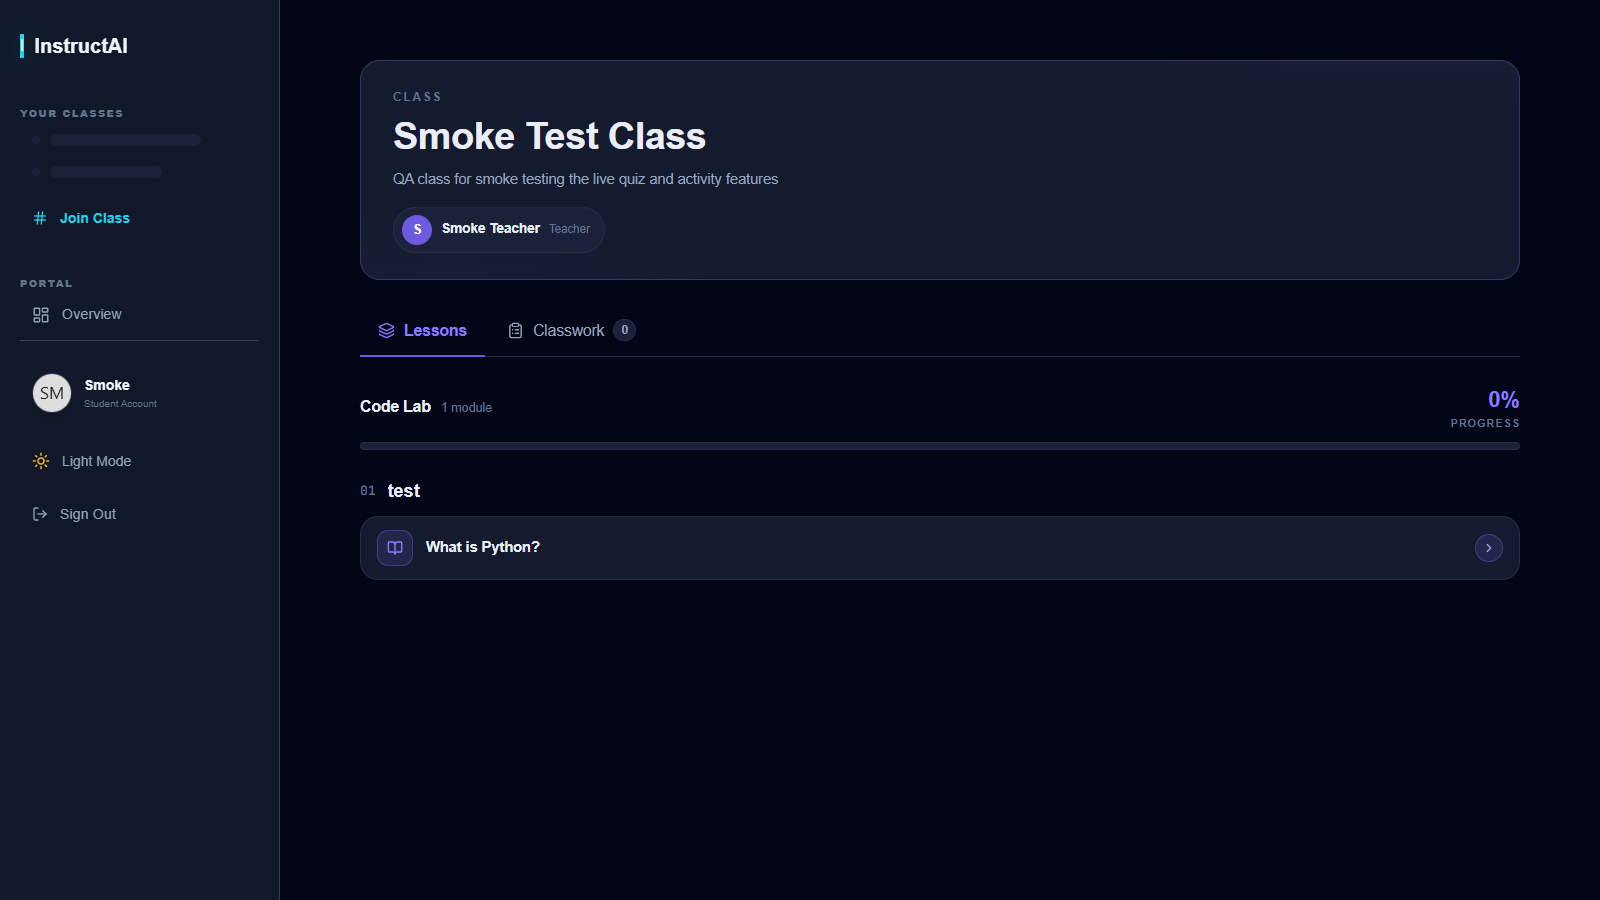
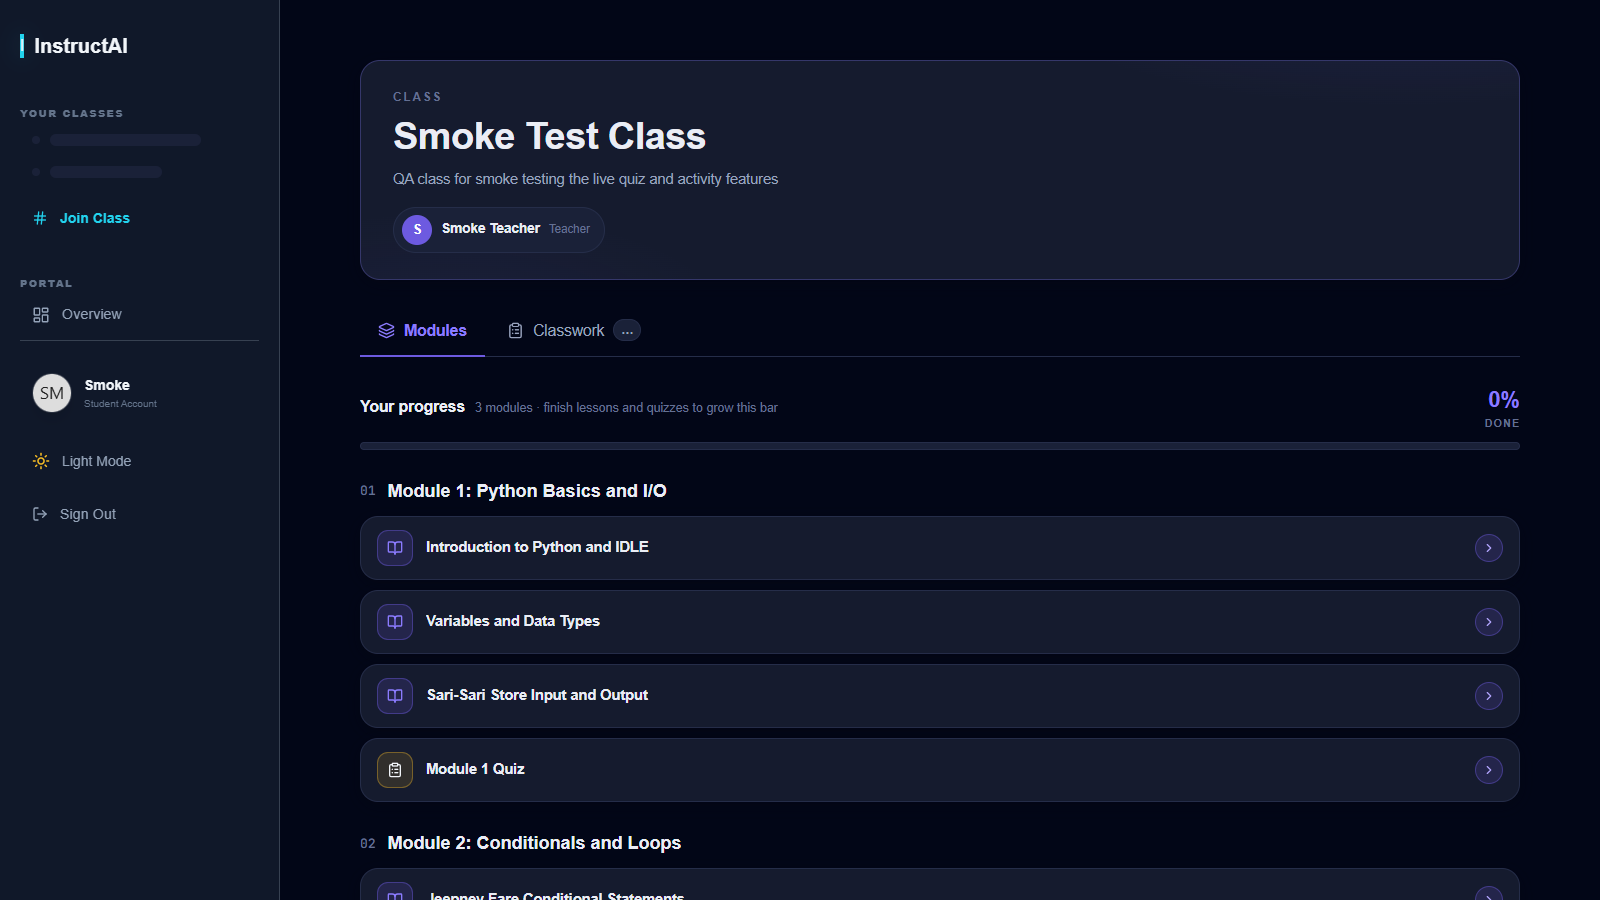
chore: cleanup test artifacts; student Modules tab rename; classwork badge honesty
- removed one-shot scripts, test PDFs, response captures, and the stray autoclaw test image; purged the junk test PDF from Cloudinary
- student tab renamed Lessons -> Modules (it holds modules, not just lessons); course-title leak replaced with 'Your progress'
- classwork badge shows an ellipsis while loading instead of a lying 0

diff --git a/frontend/src/pages/student/Classview.jsx b/frontend/src/pages/student/Classview.jsx
@@ -9,7 +9,7 @@ import { useStudentClass, useStudentActivities } from '../../queries/student';
 import { SkeletonBlock } from '../../components/ui/skeletons';
 import '../../styles/dashboard.css';
 
-const TABS = ['lessons', 'classwork'];
+const TABS = ['modules', 'classwork'];
 
 /**
  * Student class page — strict 1 class = 1 course (docs/data-layer-plan.md).
@@ -22,7 +22,7 @@ export default function ClassView() {
     const [searchParams, setSearchParams] = useSearchParams();
 
     const tabParam = searchParams.get('tab');
-    const activeTab = TABS.includes(tabParam) ? tabParam : 'lessons'; // legacy ?tab=courses lands here
+    const activeTab = TABS.includes(tabParam) ? tabParam : 'modules'; // legacy ?tab=courses lands here
     const setTab = (tab) => setSearchParams({ tab }, { replace: true });
 
     const { data: classroom, isLoading, isError } = useStudentClass(id);
@@ -86,9 +86,9 @@ export default function ClassView() {
 
             {/* Tabs */}
             <div className="cd-tab-bar">
-                <button type="button" className={`cd-tab ${activeTab === 'lessons' ? 'active' : ''}`} onClick={() => setTab('lessons')}>
+                <button type="button" className={`cd-tab ${activeTab === 'modules' ? 'active' : ''}`} onClick={() => setTab('modules')}>
                     <Layers size={17} />
-                    Lessons
+                    Modules
                 </button>
                 <button type="button" className={`cd-tab ${activeTab === 'classwork' ? 'active' : ''}`} onClick={() => setTab('classwork')}>
                     <ClipboardList size={17} />
@@ -102,24 +102,24 @@ export default function ClassView() {
                 </button>
             </div>
 
-            {/* LESSONS TAB — the single course's content, no course-picker hop */}
-            {activeTab === 'lessons' && (
+            {/* MODULES TAB — the single course's content, no course-picker hop */}
+            {activeTab === 'modules' && (
                 !course || modules.length === 0 ? (
                     <div className="cd-empty">
                         <BookOpen size={28} style={{ marginBottom: 6 }} />
                         <p className="cd-empty-title">No lessons yet</p>
-                        <p>Your teacher hasn't published any lessons. Check back soon — or switch to Classwork.</p>
+                        <p>Your teacher hasn't published any modules yet. Check back soon — or switch to Classwork.</p>
                     </div>
                 ) : (
                     <>
                         <div className="sv-progress-row">
                             <div className="sv-progress-info">
-                                <span className="sv-progress-title">{course.title}</span>
-                                <span className="sv-progress-caption">{modules.length} {modules.length === 1 ? 'module' : 'modules'}</span>
+                                <span className="sv-progress-title">Your progress</span>
+                                <span className="sv-progress-caption">{modules.length} {modules.length === 1 ? 'module' : 'modules'} · finish lessons and quizzes to grow this bar</span>
                             </div>
                             <div className="sv-progress-num-wrap">
                                 <span className="sv-progress-num">{course.progress_percent || 0}%</span>
-                                <span className="sv-progress-word">Progress</span>
+                                <span className="sv-progress-word">Done</span>
                             </div>
                         </div>
                         <div className="sv-progress-track">
